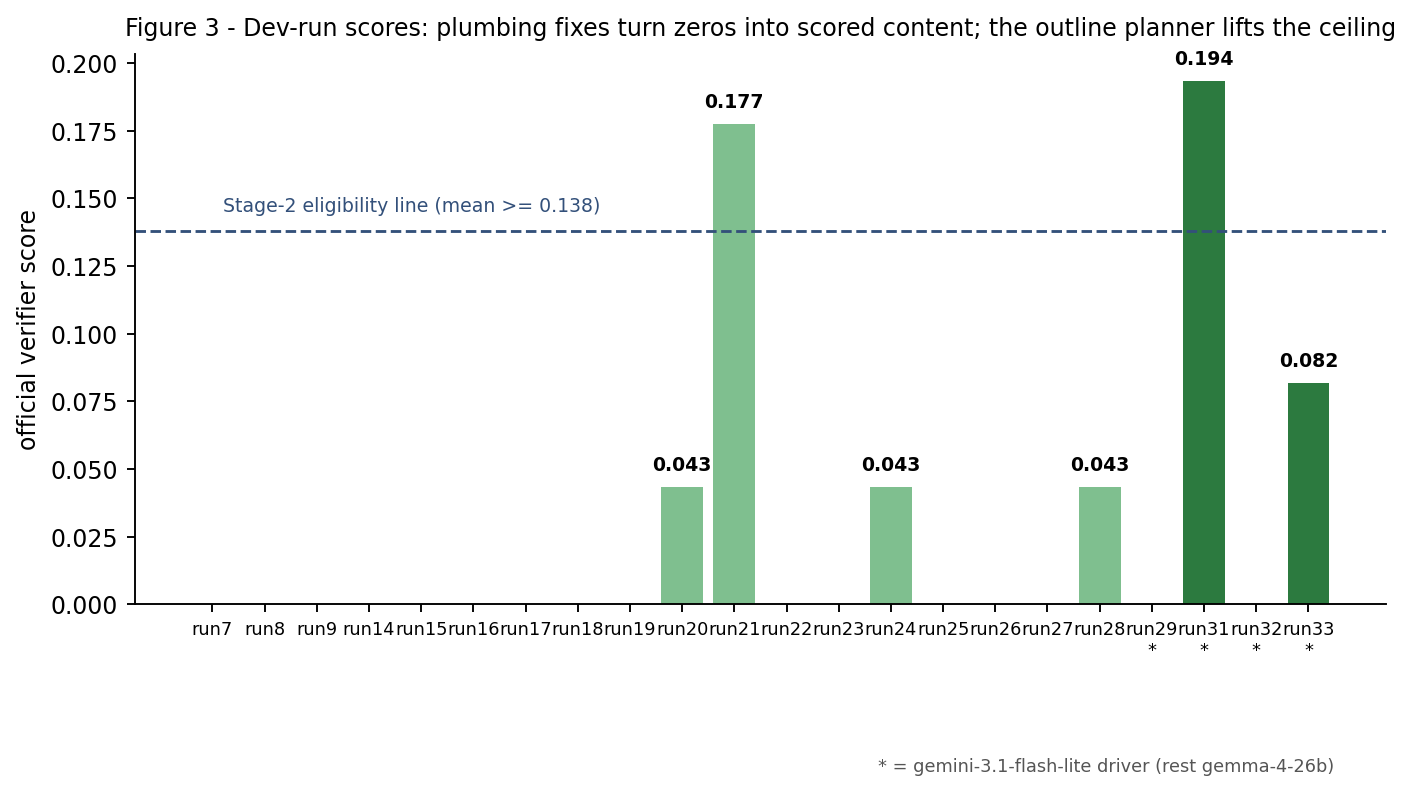
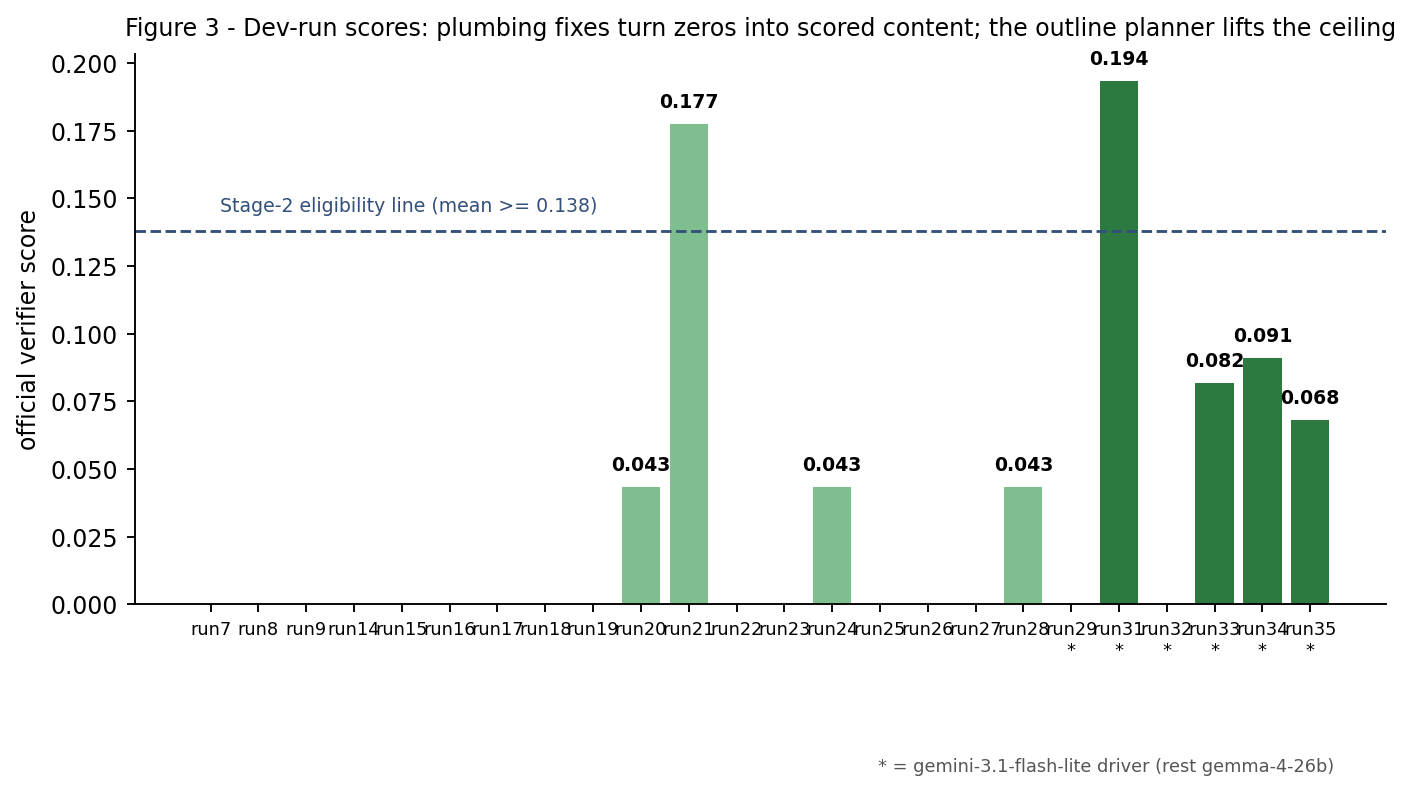
writeup: add run34 (0.0909) and run35 (0.0682, official regrade) scores

Changed region(s): [[0.1246, 0.0605, 0.966, 0.8172], [0.1558, 0.2421, 0.4363, 0.2724]]

diff --git a/writeup/figures.py b/writeup/figures.py
@@ -83,9 +83,10 @@ plt.close(fig)
 # ---------- Figure 3: run outcomes ----------
 runs = ["run7", "run8", "run9", "run14", "run15", "run16", "run17", "run18",
         "run19", "run20", "run21", "run22", "run23", "run24", "run25", "run26",
-        "run27", "run28", "run29*", "run31*", "run32*", "run33*"]
+        "run27", "run28", "run29*", "run31*", "run32*", "run33*", "run34*",
+        "run35*"]
 scores = [0, 0, 0, 0, 0, 0, 0, 0, 0, 0.0435, 0.1774, 0, 0, 0.0435, 0, 0,
-          0, 0.0435, 0, 0.1935, 0, 0.0817]
+          0, 0.0435, 0, 0.1935, 0, 0.0817, 0.0909, 0.0682]
 colors = []
 for r, s in zip(runs, scores):
     colors.append(("#2c7a3f" if s > 0 else "#c33") if r.endswith("*") else

diff --git a/writeup/draft.md b/writeup/draft.md
@@ -29,7 +29,7 @@ The dev campaign's real product. Each layer below was the dominant failure only 
 9. **Gate catch-22.** The gate blocked the agent's own build scripts (`python3 create_memo.py` names no deliverable file). A gate that blocks the build path is worse than no gate. Fix: bash/read/write/edit are always allowed; the disk is re-checked for a valid deliverable after every bash call.
 10. **Explore-forever.** With the gate open to bash, the agent burned the entire 285-minute budget on 19 analysis scripts, ignored 92 nudges, and finished with a final message promising a memo that never existed. Fix: **deliverable salvage** - in the last 15% of time, the harness itself assembles the deliverable: one model call turns the run's findings into clean document text (raw findings as fallback), a pure-Python renderer writes a real .docx/.pdf with no container installs, and the agent is told where the draft is so it can improve it. A raw-only retry fires at wrap-up.
 
-After layer 10, the failure mode changed character. Runs 29-34 (gemini-3.1-flash-lite driver) produced self-authored, structurally valid deliverables in about an hour with no salvage at all - and scored on substance, not mechanics: a professional memo that concluded "screen FAILED" where the correct engineering call was advancement to a study agreement (0.0 despite perfect delivery), a valid cable-sizing zip whose 22 held-out answers were all wrong (0.0), and a fire-test memo that earned format and mid-level points while missing deep domain inferences (0.0817). Plumbing earns the right to be graded; judgment earns the points.
+After layer 10, the failure mode changed character. Runs 29-35 (gemini-3.1-flash-lite driver) produced self-authored, structurally valid deliverables in about an hour with no salvage at all - and scored on substance, not mechanics: a professional memo that concluded "screen FAILED" where the correct engineering call was advancement to a study agreement (0.0 despite perfect delivery), a valid cable-sizing zip whose 22 held-out answers were all wrong (0.0), a fire-test memo that earned format and mid-level points while missing deep domain inferences (0.0817), and a permission-to-operate memo on a heavy app-stack task that hit every mechanical item (correct file type, addressee, PE signature block) while making the wrong energization call. The outline planner lifted the same solar task class from 0.0 to 0.0909. Plumbing earns the right to be graded; judgment earns the points.
 
 Every mechanism change was validated offline before a live dispatch: a scripted-model dry-run suite (five scenarios) simulates a fix-looping agent, an early-quitter, an invalid-format writer, and an explore-forever agent, and asserts the harness countermeasure fires. A mechanism that only ever gets validated by a 285-minute GPU run is a debugging loop measured in days; the dry-runs run in seconds.
 
@@ -43,6 +43,8 @@ Every mechanism change was validated offline before a live dispatch: a scripted-
 | 29 | solar-review | flash-lite | - | 0.0 (valid memo, wrong call) |
 | 31 | footing-settlement | flash-lite | outline planner | 0.1935 |
 | 33 | fire-test-memo | flash-lite | outline planner | 0.0817 |
+| 34 | solar-supplemental-review | flash-lite | outline planner | 0.0909 |
+| 35 | permission-to-operate-memo | flash-lite | - | 0.0682 |
 
 run21's grade detail shows the pattern precisely: 11/62 points, every earned point mechanical (settlement derivation present, tolerance finding, CONDITIONAL disposition, basis items), every missed point a deep-discrepancy judgment call. The harness earns the floor; the model earns the rest. That is exactly the separation Stage 2 rewards: the declared model runs inside the same enforced discipline with a 150k context budget and no pacing crutches.
 
